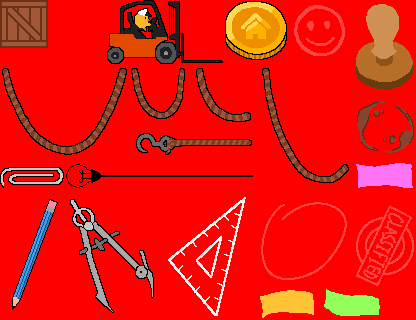
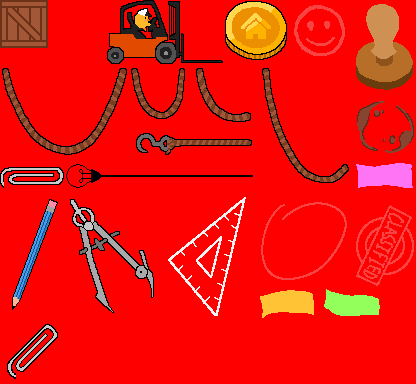
styling for the prev/next buttons for dossier overlay

diff --git a/src/menus/port_menu.py b/src/menus/port_menu.py
@@ -231,11 +231,14 @@ class PortMenu:
         # Full overlay left panel area
         num_items_in_row = 6
         num_items_in_col = 4
+        dossier_page_margin = 48
+        dossier_icon_grid_width = num_items_in_row*Box.WIDTH + (num_items_in_row - 1)*Box.PADDING
+        dossier_icon_grid_height = num_items_in_col*Box.HEIGHT + (num_items_in_col - 1)*Box.PADDING
         self.dossier_overlay = get_rect(
-            width=num_items_in_row*(Box.WIDTH + Box.PADDING) + 4*Box.PADDING,
-            height=num_items_in_col*(Box.HEIGHT + Box.PADDING) + 3*Box.PADDING + Box.HEIGHT,
+            width=dossier_icon_grid_width + 2*dossier_page_margin + 2*Box.PADDING,
+            height=dossier_icon_grid_height + 2*dossier_page_margin + Box.HEIGHT + 2*Box.PADDING,
             right=screen_x(0.5) + Box.WIDTH,
-            centery=screen_y(0.5) - Box.HEIGHT
+            centery=screen_y(0.5) - Box.HEIGHT/2
         )
         # Manila folder background
         self.dossier_bg = get_rect(
@@ -261,11 +264,13 @@ class PortMenu:
             center=self.dossier_bg.center
         )
         # Icons on page
+        dossier_icon_grid_left = self.dossier_page.centerx - dossier_icon_grid_width / 2
+        dossier_icon_grid_top = self.dossier_page.centery - dossier_icon_grid_height / 2
         self.dossier_icons = [
             get_rect(
                 width=Box.WIDTH, height=Box.HEIGHT,
-                left=self.dossier_page.left+Box.PADDING+(i%num_items_in_row)*(Box.WIDTH+Box.PADDING),
-                top=self.dossier_page.top+Box.PADDING+(i//num_items_in_row)*(Box.HEIGHT+Box.PADDING)
+                left=dossier_icon_grid_left+(i%num_items_in_row)*(Box.WIDTH+Box.PADDING),
+                top=dossier_icon_grid_top+(i//num_items_in_row)*(Box.HEIGHT+Box.PADDING)
             ) for i in range(num_items_in_row * num_items_in_col)
         ]
 
@@ -859,7 +864,15 @@ class PortMenu:
         elif self.current_overlay in [self.DEPOT, self.DECORATION_STORE]:
             overlay = self.warehouse_overlay
         elif self.current_overlay in [self.INTEL_CENTER, self.SHIPYARD, self.GEAR_LAB]:
-            overlay = self.dossier_overlay
+            self.overlay_page_prev_button.rect.topleft = (
+                self.dossier_page.left,
+                self.dossier_page.top
+            )
+            self.overlay_page_next_button.rect.bottomright = (
+                self.dossier_page.right,
+                self.dossier_page.bottom
+            )
+            return
         else:
             return
 
@@ -1055,6 +1068,9 @@ class PortMenu:
         if self.get_overlay_page_count() <= 1:
             return
 
+        if self.current_overlay in [self.INTEL_CENTER, self.SHIPYARD, self.GEAR_LAB]:
+            return
+
         page = self.get_overlay_page()
         page_count = self.get_overlay_page_count()
         page_text_pos = (
@@ -1102,6 +1118,7 @@ class PortMenu:
             surface.blit(icon, icon_rect)
 
         entities = self.get_visible_overlay_entities()
+        self.refresh_overlay_page_buttons()
         misaligned_pages = [
             (-5, pygame.Vector2(-8, 6), (224, 218, 201)),
             (4, pygame.Vector2(6, -4), (235, 229, 212)),
@@ -1126,7 +1143,57 @@ class PortMenu:
             sticky_tab_rect.centery = self.dossier_page.top + sticky_tab_offsety
             surface.blit(sticky_tab_sprite, sticky_tab_rect)
 
-        pygame.draw.rect(surface, Color.DOSSIER_PAGE, self.dossier_page)
+        page_turn_size = self.overlay_page_next_button.rect.width
+        if self.overlay_page_next_button.active:
+            fold_top = (self.dossier_page.right, self.dossier_page.bottom - page_turn_size)
+            fold_left = (self.dossier_page.right - page_turn_size, self.dossier_page.bottom)
+            fold_tip = (
+                self.dossier_page.right - page_turn_size,
+                self.dossier_page.bottom - page_turn_size
+            )
+            page_polygon = [
+                self.dossier_page.topleft,
+                self.dossier_page.topright,
+                fold_top,
+                fold_left,
+                self.dossier_page.bottomleft,
+            ]
+            folded_corner = [
+                fold_top,
+                fold_left,
+                fold_tip,
+            ]
+            pygame.draw.polygon(surface, Color.DOSSIER_PAGE, page_polygon)
+            if self.overlay_page_next_button.hovered:
+                folded_corner_color = (196, 196, 188)
+            else:
+                folded_corner_color = (224, 224, 216)
+            pygame.draw.polygon(surface, folded_corner_color, folded_corner)
+            pygame.draw.line(surface, (196, 196, 188), fold_top, fold_left, width=Box.OUTLINE_WIDTH)
+            pygame.draw.line(surface, (238, 238, 232), fold_left, fold_tip, width=Box.OUTLINE_WIDTH)
+        else:
+            pygame.draw.rect(surface, Color.DOSSIER_PAGE, self.dossier_page)
+
+        if self.overlay_page_prev_button.active:
+            prev_corner = [
+                self.dossier_page.topleft,
+                (self.dossier_page.left + page_turn_size, self.dossier_page.top),
+                (self.dossier_page.left, self.dossier_page.top + page_turn_size),
+            ]
+            if self.overlay_page_prev_button.hovered:
+                prev_corner_color = (196, 196, 188)
+            else:
+                prev_corner_color = (224, 224, 216)
+            pygame.draw.polygon(surface, prev_corner_color, prev_corner)
+        font_registry["big_pixel"].render(
+            surface,
+            f"{self.get_overlay_page() + 1}/{self.get_overlay_page_count()}",
+            (self.dossier_page.centerx, self.dossier_page.bottom - 2*Box.PADDING),
+            (128, 128, 120),
+            1,
+            style="center",
+            outline_color=Color.DOSSIER_PAGE,
+        )
         red_circle_sprite = DataFiles.sprites["props"]["red_circle"]
         red_circle_rect = red_circle_sprite.get_rect()
         red_circle_rect.topleft = (-2*Box.WIDTH, -2*Box.HEIGHT)
@@ -1140,10 +1207,10 @@ class PortMenu:
             pygame.draw.rect(surface, Color.BLACK, rect, width=Box.OUTLINE_WIDTH)
         surface.blit(red_circle_sprite, red_circle_rect)
 
-        paperclip_sprite = DataFiles.sprites["props"]["paperclip"]
+        paperclip_sprite = DataFiles.sprites["props"]["diagonal_paperclip"]
         paperclip_rect = paperclip_sprite.get_rect()
-        paperclip_rect.left = self.dossier_bg.left - 4 # TODO paper clip offset magic number
-        paperclip_rect.top = self.dossier_bg.top
+        paperclip_rect.left = self.dossier_bg.left - 16 # TODO paper clip offset magic number
+        paperclip_rect.top = self.dossier_bg.top - 8
         surface.blit(paperclip_sprite, paperclip_rect)
 
         classified_sprite = pygame.transform.scale_by(DataFiles.sprites["props"]["classified"], 1.5)
